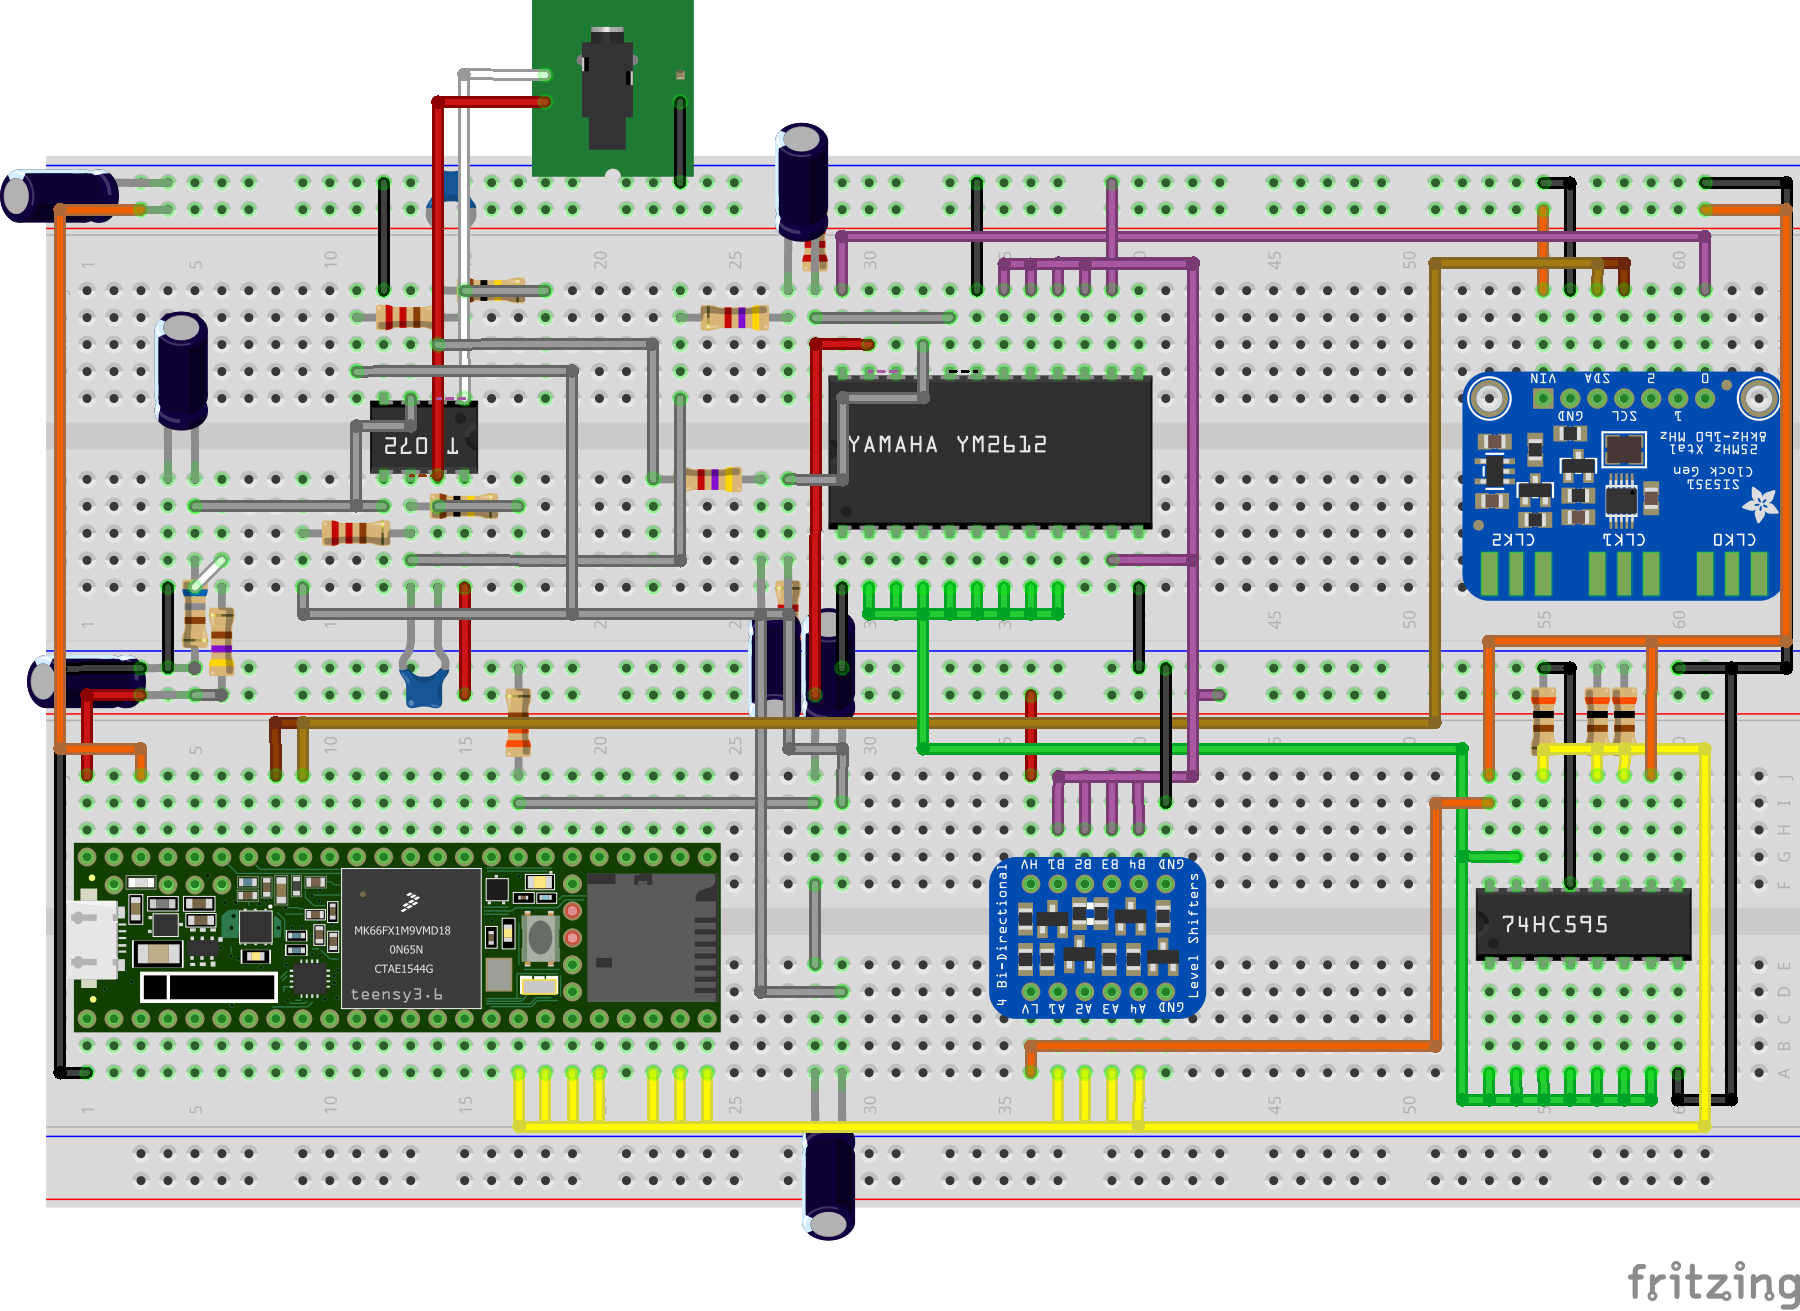
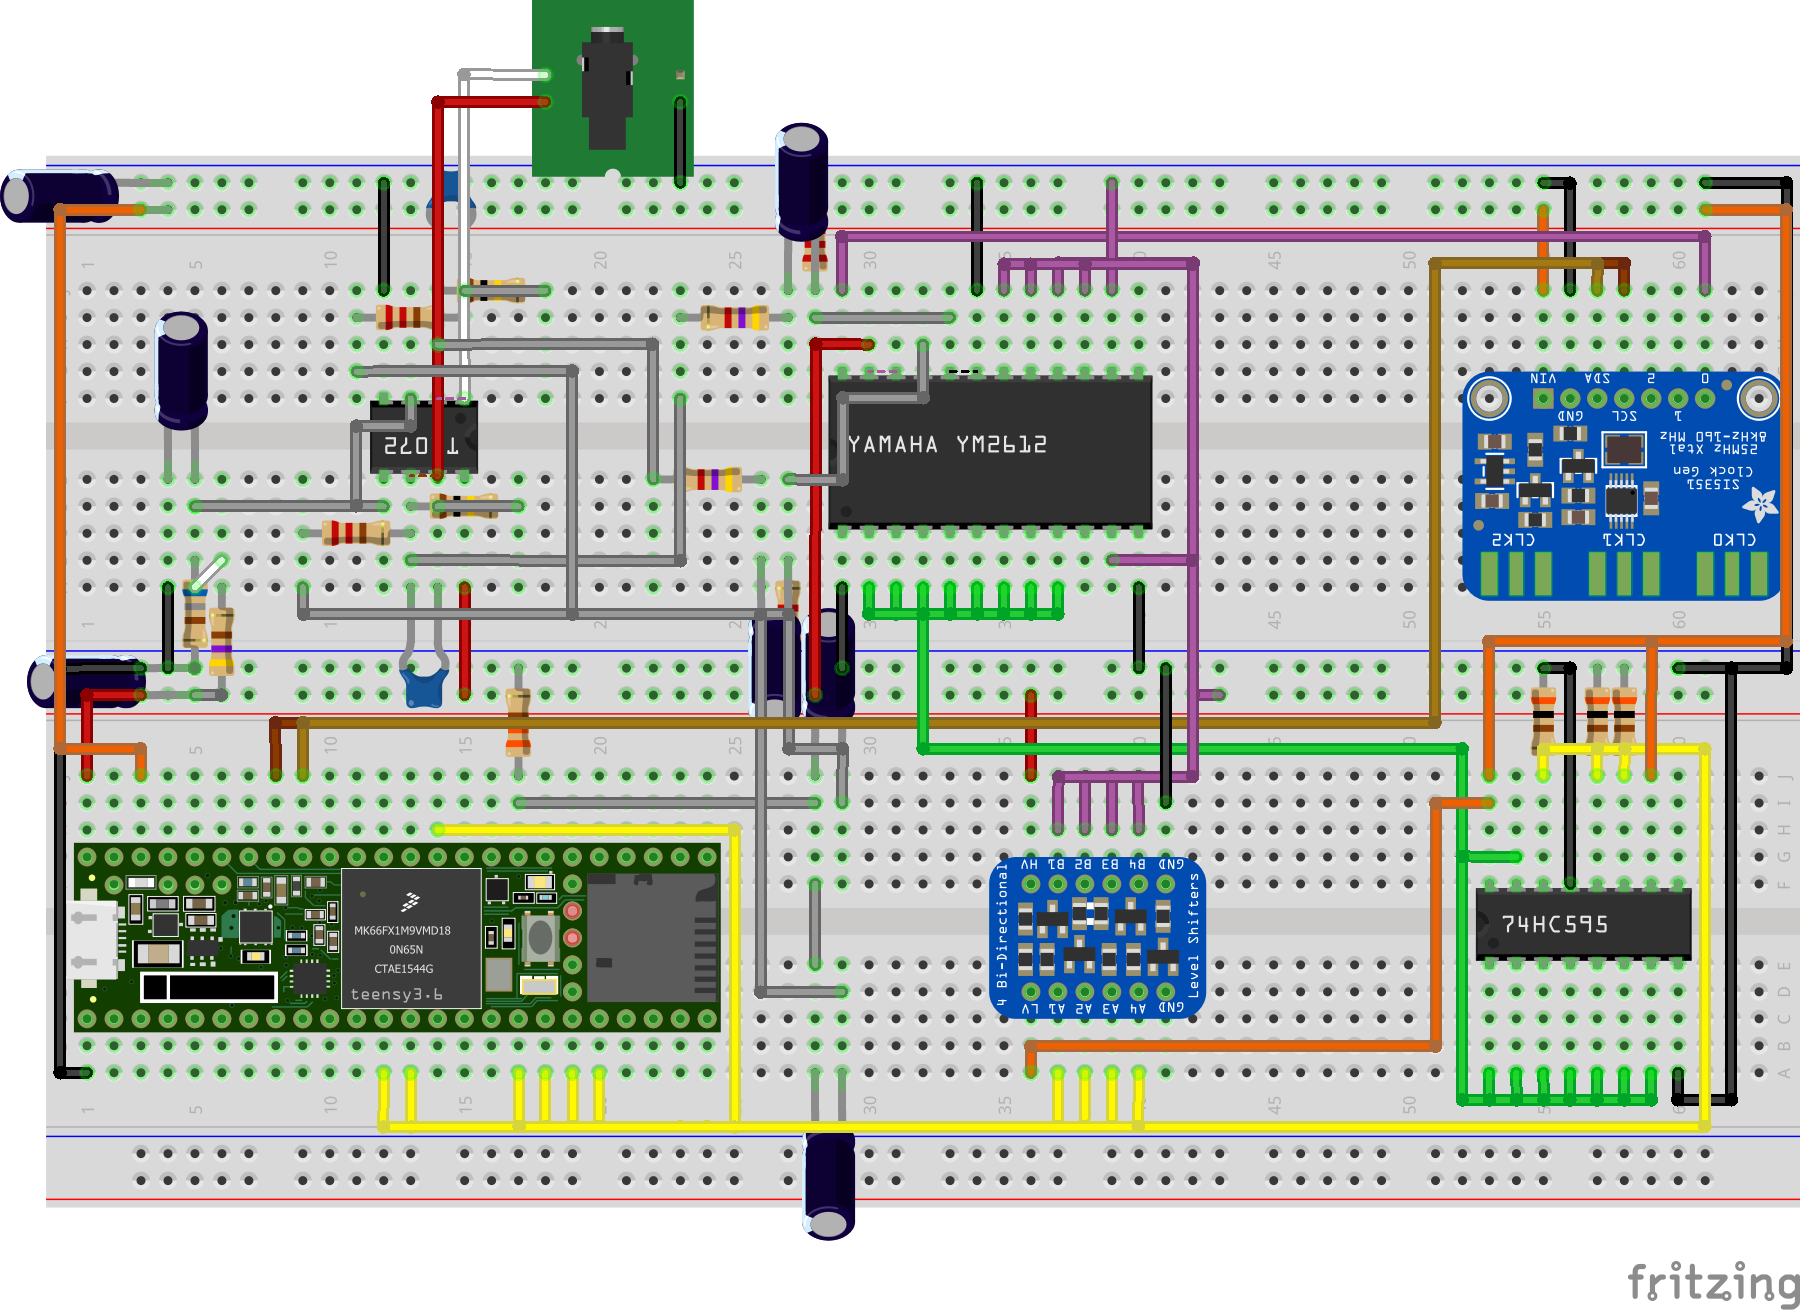
Change shift register function to SPI class

Changed region(s): [[0.3422, 0.6407, 0.4356, 0.8543], [0.2178, 0.6102, 0.4044, 0.6407], [0.1867, 0.8238, 0.28, 0.8848]]

diff --git a/hardware/src/chip/shiftregister.cpp b/hardware/src/chip/shiftregister.cpp
@@ -1,11 +1,9 @@
 #include "shiftregister.hpp"
 #include <Arduino.h>
-
-#define SR_DATA 32
-#define SR_LATCH 31
-#define SR_CLOCK 30
+#include <SPI.h>
 
 bool ShiftRegister::_setup = false;
+static SPISettings _srSpiSettings(2'000'000, MSBFIRST, SPI_MODE0);
 
 void ShiftRegister::setup(void)
 {
@@ -14,32 +12,27 @@ void ShiftRegister::setup(void)
         return;
     }
 
-    pinMode(SR_DATA, OUTPUT);
-    pinMode(SR_CLOCK, OUTPUT);
-    pinMode(SR_LATCH, OUTPUT);
+    pinMode(MOSI, OUTPUT);
+    pinMode(SCK, OUTPUT);
+    pinMode(SS, OUTPUT);
 
-    digitalWriteFast(SR_DATA, LOW);
-    digitalWriteFast(SR_CLOCK, LOW);
-    digitalWriteFast(SR_LATCH, LOW);
+    digitalWriteFast(MOSI, LOW);
+    digitalWriteFast(SCK, LOW);
+    digitalWriteFast(SS, LOW);
+
+    SPI.begin();
 
     _setup = true;
 }
 
 void ShiftRegister::pushData(uint8_t data)
 {
-    // We have to bit-bang the shift register because
-    // the SPI library doesn't work in interrupts
+    digitalWriteFast(SS, LOW);
 
-    digitalWriteFast(SR_LATCH, LOW);
+    SPI.beginTransaction(_srSpiSettings);
+    SPI.transfer(data);
+    SPI.endTransaction();
 
-    for (int8_t i = 7; i >= 0; i--)
-    {
-        digitalWriteFast(SR_DATA, data & (1 << i));
-        digitalWriteFast(SR_CLOCK, HIGH);
-        asm("nop\nnop\nnop\nnop\nnop\nnop\nnop\nnop\nnop\n");
-        digitalWriteFast(SR_CLOCK, LOW);
-    }
-
-    digitalWriteFast(SR_LATCH, HIGH);
+    digitalWriteFast(SS, HIGH);
     asm("nop\nnop\nnop\nnop\nnop\nnop\nnop\nnop\nnop\n");
 }

diff --git a/hardware/src/chip/ym2612.cpp b/hardware/src/chip/ym2612.cpp
@@ -35,8 +35,6 @@ void Ym2612::setup(void)
 
 void Ym2612::pushData(uint8_t port, uint8_t data)
 {
-    digitalWriteFast(13, HIGH);
-
     port &= 0x03;
     digitalWriteFast(FM_A0, port & 0x01);
     digitalWriteFast(FM_A1, (port & 0x02) >> 1);
@@ -52,6 +50,4 @@ void Ym2612::pushData(uint8_t port, uint8_t data)
     asm("nop\nnop\nnop\nnop\nnop\nnop\nnop\nnop\nnop\nnop\nnop\nnop\nnop\nnop\nnop\n");
     asm("nop\nnop\nnop\nnop\nnop\nnop\nnop\nnop\nnop\nnop\nnop\nnop\nnop\nnop\nnop\n");
     digitalWriteFast(FM_WR, HIGH);
-
-    digitalWriteFast(13, LOW);
 }

diff --git a/hardware/src/chip/sn76489.cpp b/hardware/src/chip/sn76489.cpp
@@ -45,16 +45,12 @@ void Sn76489::setup(void)
 void Sn76489::pushData(uint8_t data)
 {
 #ifdef USE_REAL_PSG
-    digitalWriteFast(13, HIGH);
-
     ShiftRegister::pushData(data);
 
     digitalWriteFast(PSG_WE, LOW);
     wait10ns();
     digitalWriteFast(PSG_WE, HIGH);
     wait10ns();
-
-    digitalWriteFast(13, LOW);
 #else
     EmulatedPsg::write(data);
 #endif
